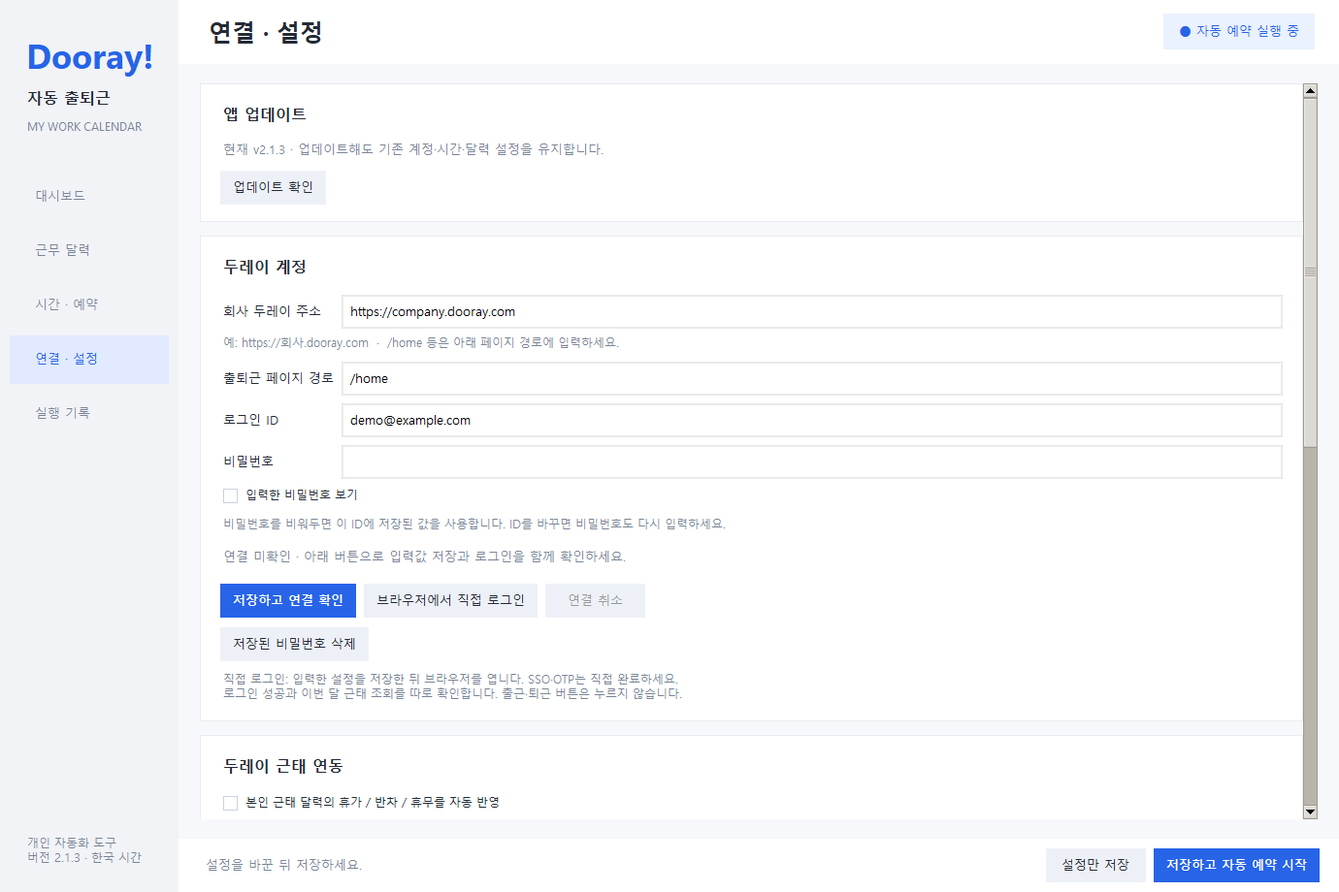
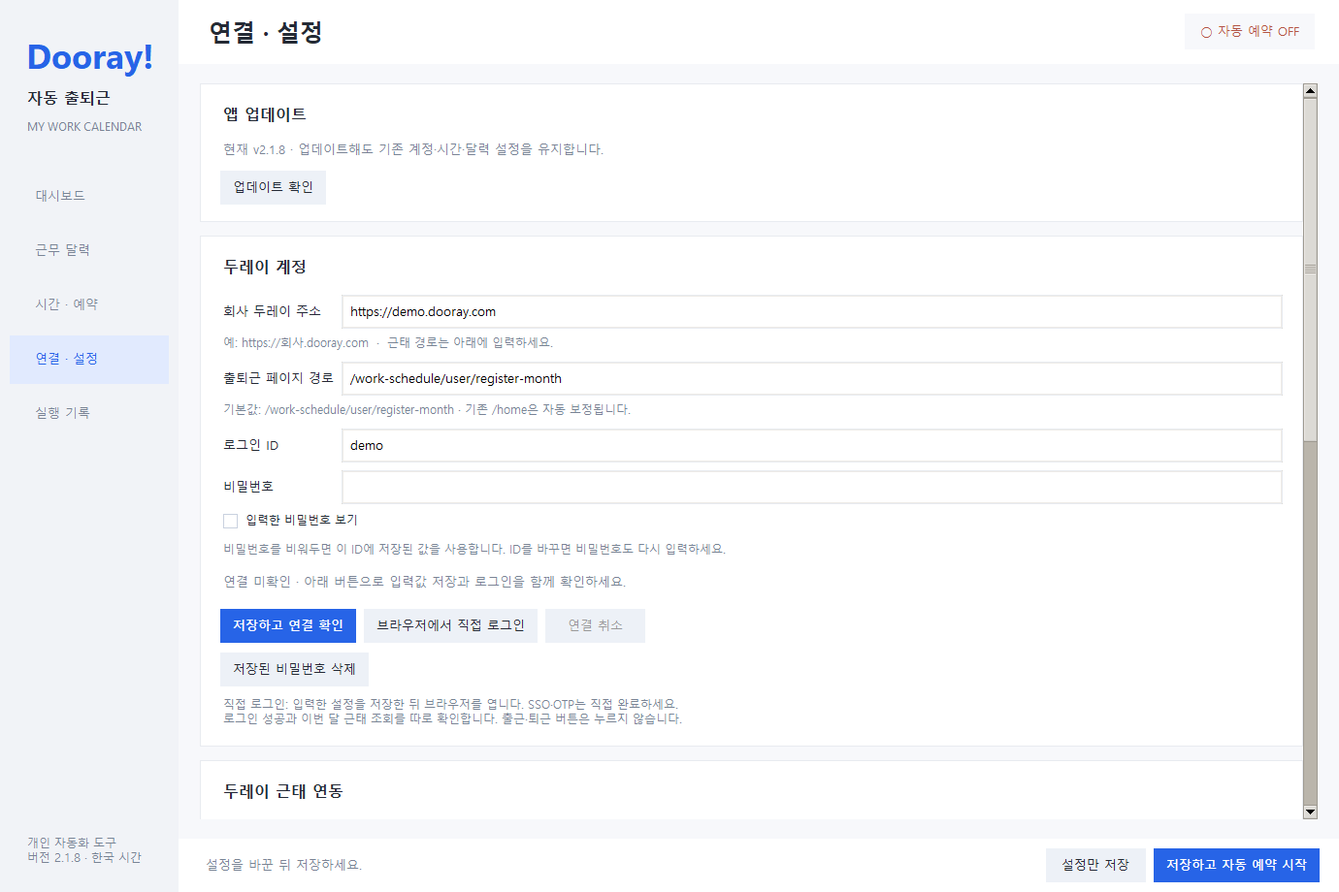
Correct legacy home path to Dooray attendance page

diff --git a/docs/guide.html b/docs/guide.html
@@ -1,11 +1,11 @@
 <!doctype html><html lang="ko"><head><meta charset="utf-8"><meta name="viewport" content="width=device-width, initial-scale=1"><title>설치와 업데이트 안내 | 두레이 자동 출퇴근</title><meta name="description" content="Windows에서 두레이 자동 출퇴근을 설치하고 계정 연결, 출퇴근 시간, 휴가·반차와 자동 예약을 설정하는 방법."><link rel="canonical" href="https://kimasill.github.io/dooray-auto-checkin/guide.html"><meta property="og:type" content="article"><meta property="og:locale" content="ko_KR"><meta property="og:title" content="두레이 자동 출퇴근 설치·업데이트 안내"><meta property="og:description" content="다운로드부터 계정 연결, 예약 시작, 업데이트까지 화면과 함께 따라 하는 설치 가이드."><meta property="og:url" content="https://kimasill.github.io/dooray-auto-checkin/guide.html"><meta property="og:image" content="https://kimasill.github.io/dooray-auto-checkin/images/connection.png"><meta name="twitter:card" content="summary_large_image"><link rel="icon" href="icon.svg" type="image/svg+xml"><link rel="stylesheet" href="site.css"></head><body>
 <a class="skip" href="#main">본문으로 바로가기</a><header class="header"><div class="wrap"><a class="brand" href="./"><img src="icon.svg" alt="">두레이 자동 출퇴근</a><nav class="nav" aria-label="주 메뉴"><a href="./#features">기능</a><a href="guide.html" aria-current="page">설치 안내</a><a href="story.html">소개 글</a><a class="nav-cta" href="https://github.com/kimasill/dooray-auto-checkin/releases/latest">다운로드 ↗</a></nav></div></header>
-<main id="main"><div class="page-hero"><div class="wrap"><p class="eyebrow">Installation guide</p><h1>설치부터 첫 예약까지.</h1><p class="lead">처음 사용하는 분도 순서대로 따라 할 수 있도록 정리했습니다.<br>기존 사용자는 아래의 업데이트 방법을 이용하세요.</p><p class="meta">Windows용 · v2.1.7 기준 · 2026.10.22</p></div></div><article class="reading">
+<main id="main"><div class="page-hero"><div class="wrap"><p class="eyebrow">Installation guide</p><h1>설치부터 첫 예약까지.</h1><p class="lead">처음 사용하는 분도 순서대로 따라 할 수 있도록 정리했습니다.<br>기존 사용자는 아래의 업데이트 방법을 이용하세요.</p><p class="meta">Windows용 · v2.1.8 기준 · 2026.10.22</p></div></div><article class="reading">
 <nav class="toc" aria-label="설치 안내 목차"><a href="#download">다운로드</a><a href="#connect">계정 연결</a><a href="#schedule">예약 시작</a><a href="#calendar">근태 반영</a><a href="#update">업데이트</a><a href="#troubleshooting">문제 해결</a></nav>
 <h2 id="download">01. 설치 파일 받기</h2><ol><li><a href="https://github.com/kimasill/dooray-auto-checkin/releases/latest">GitHub 최신 릴리스</a>를 엽니다.</li><li>Assets에서 <strong>DoorayAutoCheckin-v버전-windows.zip</strong>을 받습니다. 소스 코드를 담은 <code>-source.zip</code>과는 다른 파일입니다.</li><li>받은 ZIP을 원하는 폴더에 <strong>압축 해제</strong>한 뒤 <strong>설치.bat</strong>을 실행합니다.</li><li>필요한 Chromium 준비와 설치가 완료되면 프로그램을 실행합니다. 최초 설치에는 인터넷 연결이 필요합니다.</li></ol><p>Python을 따로 설치할 필요는 없습니다. 프로그램과 사용자 설정은 <code>%LOCALAPPDATA%\DoorayCheckin</code> 아래에 저장됩니다.</p>
-<h2 id="connect">02. 회사 계정 연결하기</h2><ol><li>왼쪽 메뉴의 <strong>연결 · 설정</strong>을 엽니다.</li><li>회사 두레이 주소를 <code>https://회사.dooray.com</code> 형태로 입력합니다. 회사 주소에 <code>/home</code>을 붙이지 않습니다.</li><li>회사 웹에서 사용하는 로그인 ID와 비밀번호를 입력합니다.</li><li><strong>저장하고 연결 확인</strong>을 누르고 화면 아래에 표시되는 결과를 확인합니다.</li></ol><figure><a href="images/connection.png"><img loading="lazy" src="images/connection.png" width="1380" height="920" alt="회사 두레이 주소와 ID·비밀번호를 입력하고 저장하고 연결 확인을 누르는 설정 화면"></a><figcaption>실제 프로그램 화면 · 계정 정보는 예시입니다. 이미지를 누르면 크게 볼 수 있습니다.</figcaption></figure><p>연결 확인은 로그인과 출퇴근 화면, 근태 조회를 점검하며 출퇴근 기록은 만들지 않습니다. SSO·OTP 등 추가 인증이 있으면 <strong>브라우저에서 직접 로그인</strong>을 사용하세요. 비밀번호를 비워두면 현재 ID에 저장된 비밀번호를 사용합니다.</p>
+<h2 id="connect">02. 회사 계정 연결하기</h2><ol><li>왼쪽 메뉴의 <strong>연결 · 설정</strong>을 엽니다.</li><li>회사 두레이 주소를 <code>https://회사.dooray.com</code> 형태로 입력합니다. 회사 주소에 페이지 경로를 붙이지 않습니다. 출퇴근 페이지 경로와 본인 월별 근태 경로는 모두 <code>/work-schedule/user/register-month</code>가 기본값입니다.</li><li>회사 웹에서 사용하는 로그인 ID와 비밀번호를 입력합니다.</li><li><strong>저장하고 연결 확인</strong>을 누르고 화면 아래에 표시되는 결과를 확인합니다.</li></ol><figure><a href="images/connection.png"><img loading="lazy" src="images/connection.png" width="1380" height="920" alt="회사 두레이 주소와 ID·비밀번호를 입력하고 저장하고 연결 확인을 누르는 설정 화면"></a><figcaption>실제 프로그램 화면 · 계정 정보는 예시입니다. 이미지를 누르면 크게 볼 수 있습니다.</figcaption></figure><p>연결 확인은 로그인과 출퇴근 화면, 근태 조회를 점검하며 출퇴근 기록은 만들지 않습니다. SSO·OTP 등 추가 인증이 있으면 <strong>브라우저에서 직접 로그인</strong>을 사용하세요. 비밀번호를 비워두면 현재 ID에 저장된 비밀번호를 사용합니다.</p>
 <h2 id="schedule">03. 시간 설정 후 자동 예약 시작하기</h2><ol><li><strong>시간 · 예약</strong>에서 출근·퇴근 각각의 <strong>자동 예약에 포함</strong> 여부를 선택합니다.</li><li>기준 시각을 시·분·초 드롭다운으로 고릅니다.</li><li><strong>고정 시각</strong> 또는 <strong>랜덤 범위</strong>를 선택합니다. 랜덤 범위는 기준 시각의 이전·이후를 각각 분과 초로 설정합니다.</li><li>근무 요일과 공휴일 제외 여부를 확인합니다.</li><li>하단의 <strong>저장하고 자동 예약 시작</strong>을 누릅니다.</li><li>상단에 <strong>자동 예약 실행 중</strong>이 나타나고 대시보드에 오늘의 선택 시각이 표시되는지 확인합니다.</li></ol><div class="notice"><strong>‘설정만 저장’은 예약을 시작하지 않습니다.</strong><br>PC가 켜져 있고 Windows에 로그인된 상태여야 합니다. 자동 예약을 켜 두면 앱 창을 닫아도 감시 프로그램은 유지됩니다.</div><figure><a href="images/schedule.png"><img loading="lazy" src="images/schedule.png" width="1380" height="920" alt="출퇴근 기준 시각과 랜덤 범위의 분·초를 지정하고 자동 예약을 시작하는 화면"></a><figcaption>예: 09:55 기준 5분 30초 전 ~ 2분 15초 후 → 09:49:30~09:57:15.</figcaption></figure><p>랜덤 시각은 범위 안의 모든 초 중 하나를 선택합니다. 설정이 같으면 같은 날 앱을 재시작해도 선택 시각은 유지됩니다. <strong>예약 시각은 처리 시작 시각</strong>이며, 접속과 로그인 이후 실제 기록이 남으므로 특정 초의 기록을 보장하지 않습니다.</p>
 <h2 id="calendar">04. 연차·반차와 날짜별 예외 설정하기</h2><p><strong>근무 달력 → 이번 달 근태 가져오기</strong>로 본인 근태를 갱신합니다. 연차·휴가, 오전 반차, 오후 반차를 색상으로 확인할 수 있습니다.</p><ul><li><strong>휴가·반차를 자동 예약에 적용:</strong> 달력 아래 <strong>두레이 근태를 자동 예약에도 반영</strong>을 체크한 뒤 저장합니다.</li><li><strong>반차 퇴근 시각:</strong> 시간 · 예약에서 오전·오후 반차별 퇴근 시각을 지정합니다. 출근은 원래 설정을 유지합니다.</li><li><strong>대체근무일이나 별도 휴무:</strong> 달력에서 날짜를 선택하고 근태 유형, 출근·퇴근 ON/OFF 또는 시각을 직접 지정한 뒤 저장합니다.</li></ul><p>날짜별 직접 설정이 두레이 근태보다 우선합니다. 전체 출근 또는 퇴근 예약이 꺼져 있으면 날짜별 ON만으로 실행되지 않습니다. 두레이 근태 조회는 현재 월을 대상으로 하며 다른 달은 수동으로 설정할 수 있습니다.</p>
 <h2 id="update">05. 앱에서 업데이트하기</h2><ol><li><strong>연결 · 설정 → 업데이트 확인</strong>을 누릅니다.</li><li>새 버전이 있으면 <strong>다운로드 및 설치</strong>를 누릅니다.</li><li>공식 GitHub 배포 파일을 내려받아 SHA-256을 검사한 뒤 설치합니다. 앱이 종료되고 새 버전으로 다시 열립니다.</li></ol><p>기존 계정·비밀번호·시간·달력·예약 ON/OFF를 유지합니다. 이전 실행 파일과 설정은 <code>%LOCALAPPDATA%\DoorayCheckin\backups</code>에 백업됩니다. 앱 내 업데이트는 2.1.3부터 지원하며, 더 오래된 버전은 최신 Windows ZIP을 받아 <strong>설치.bat</strong>으로 업데이트하세요.</p>
-<h2 id="troubleshooting">문제가 생겼을 때</h2><div class="faq"><details><summary>로그인이 되지 않아요</summary><p>회사 주소와 로그인 ID, 비밀번호를 다시 확인하고 ‘저장하고 연결 확인’을 누르세요. SSO·OTP는 ‘브라우저에서 직접 로그인’을 사용합니다. 계정 입력란 아래에 표시되는 오류 코드와 안내를 확인하세요. <a href="https://github.com/kimasill/dooray-auto-checkin#연결이-안-될-때">오류 코드별 안내</a></p></details><details><summary>웹 로그인은 됐는데 앱이 계속 기다려요</summary><p>2.1.7로 업데이트하고 출퇴근 페이지 경로가 기본값 /home인지 확인하세요. 로그인 뒤 메일·프로젝트로 이동한 경우 출퇴근 페이지로 이동해 다시 확인합니다. 직접 로그인에서는 열린 창에 사용자가 ID·비밀번호를 입력해야 합니다. 계속 실패하면 연결 확인을 다시 실행한 직후 최신 진단 도구 v3로 수집하세요.</p></details><details><summary>시간을 저장했는데 예약이 실행되지 않아요</summary><p>‘자동 예약에 포함’과 ‘자동 예약 실행 중’ 표시를 확인하세요. 오늘 날짜의 휴가·공휴일·수동 OFF도 확인해야 합니다. PC가 꺼졌거나 절전 상태였다면 예정 시각에 실행되지 않을 수 있습니다. 실행 기록 메뉴에서 당시 로그를 확인하세요.</p></details><details><summary>출근·퇴근 점검을 눌렀는데 기록이 없어요</summary><p>‘출근 점검 (기록 없음)’과 ‘퇴근 점검 (기록 없음)’은 실제 기록을 만들지 않습니다. 지금 처리하려면 ‘지금 출근’ 또는 ‘지금 퇴근’을 누르고 확인창을 거쳐야 합니다.</p></details><details><summary>다른 PC에서 실패한 로그를 전달하고 싶어요</summary><p><a href="https://github.com/kimasill/dooray-auto-checkin/releases/latest">최신 릴리스</a>의 Dooray-diagnostics-tool.zip을 실패한 PC에서 풀고 ‘진단로그수집.bat’을 실행하세요. 바탕화면에 진단 ZIP이 생성됩니다. 도구는 비밀번호·로그인 세션·스크린샷·원본 설정을 수집하지 않으며 자동 전송하지 않습니다. 공유 전에 내용을 확인하고 비밀번호나 원본 설정 파일을 공개 이슈에 붙이지 마세요.</p></details></div><div class="actions"><a class="button" href="https://github.com/kimasill/dooray-auto-checkin/releases/latest">최신 설치 파일 보기 ↗</a><a class="button secondary" href="https://github.com/kimasill/dooray-auto-checkin/issues">문의·오류 제보</a></div>
+<h2 id="troubleshooting">문제가 생겼을 때</h2><div class="faq"><details><summary>로그인이 되지 않아요</summary><p>회사 주소와 로그인 ID, 비밀번호를 다시 확인하고 ‘저장하고 연결 확인’을 누르세요. SSO·OTP는 ‘브라우저에서 직접 로그인’을 사용합니다. 계정 입력란 아래에 표시되는 오류 코드와 안내를 확인하세요. <a href="https://github.com/kimasill/dooray-auto-checkin#연결이-안-될-때">오류 코드별 안내</a></p></details><details><summary>웹 로그인은 됐는데 앱이 계속 기다려요</summary><p>2.1.8로 업데이트하고 ‘저장하고 연결 확인’을 누르세요. 기존 /home 설정은 /work-schedule/user/register-month로 자동 보정됩니다. /home에는 출퇴근 버튼이 없을 수 있습니다. 로그인 뒤 메일·프로젝트로 이동한 경우 출퇴근 페이지로 이동해 다시 확인합니다. 직접 로그인에서는 열린 창에 사용자가 ID·비밀번호를 입력해야 합니다. 계속 실패하면 연결 확인을 다시 실행한 직후 최신 진단 도구 v3로 수집하세요.</p></details><details><summary>시간을 저장했는데 예약이 실행되지 않아요</summary><p>‘자동 예약에 포함’과 ‘자동 예약 실행 중’ 표시를 확인하세요. 오늘 날짜의 휴가·공휴일·수동 OFF도 확인해야 합니다. PC가 꺼졌거나 절전 상태였다면 예정 시각에 실행되지 않을 수 있습니다. 실행 기록 메뉴에서 당시 로그를 확인하세요.</p></details><details><summary>출근·퇴근 점검을 눌렀는데 기록이 없어요</summary><p>‘출근 점검 (기록 없음)’과 ‘퇴근 점검 (기록 없음)’은 실제 기록을 만들지 않습니다. 지금 처리하려면 ‘지금 출근’ 또는 ‘지금 퇴근’을 누르고 확인창을 거쳐야 합니다.</p></details><details><summary>다른 PC에서 실패한 로그를 전달하고 싶어요</summary><p><a href="https://github.com/kimasill/dooray-auto-checkin/releases/latest">최신 릴리스</a>의 Dooray-diagnostics-tool.zip을 실패한 PC에서 풀고 ‘진단로그수집.bat’을 실행하세요. 바탕화면에 진단 ZIP이 생성됩니다. 도구는 비밀번호·로그인 세션·스크린샷·원본 설정을 수집하지 않으며 자동 전송하지 않습니다. 공유 전에 내용을 확인하고 비밀번호나 원본 설정 파일을 공개 이슈에 붙이지 마세요.</p></details></div><div class="actions"><a class="button" href="https://github.com/kimasill/dooray-auto-checkin/releases/latest">최신 설치 파일 보기 ↗</a><a class="button secondary" href="https://github.com/kimasill/dooray-auto-checkin/issues">문의·오류 제보</a></div>
 </article></main><footer class="footer"><div class="wrap"><p>두레이 자동 출퇴근 · kimasill의 개인 프로젝트<br>Dooray가 제공하는 공식 프로그램이 아닙니다.</p><p><a href="./">소개 페이지</a> · <a href="story.html">소개 글</a> · <a href="https://github.com/kimasill/dooray-auto-checkin">GitHub</a></p></div></footer></body></html>

diff --git a/Duray/tests/test_legacy_path.py b/Duray/tests/test_legacy_path.py
@@ -1,0 +1,127 @@
+"""Old /home settings must reach the page that actually contains attendance."""
+import copy
+import datetime as dt
+import json
+import os
+from pathlib import Path
+import sys
+import tempfile
+import threading
+import unittest
+from unittest.mock import patch
+
+sys.path.insert(0, str(Path(__file__).resolve().parents[1]))
+import dooray_checkin as core
+import attendance_rules as rules
+import attendance_runtime as runtime
+from playwright.sync_api import BrowserType
+
+PATH = '/work-schedule/user/register-month'
+BROWSER = os.environ.get('DOORAY_TEST_BROWSER', '')
+OUTPUT = Path(__file__).resolve().parents[2] / 'test-output/legacy-path'
+
+
+class LegacySettingsTest(unittest.TestCase):
+    def test_loading_old_file_corrects_only_home_without_rewriting_file(self):
+        OUTPUT.mkdir(parents=True, exist_ok=True)
+        for path in ('/home', '/home/'):
+            with self.subTest(path=path), tempfile.TemporaryDirectory(dir=OUTPUT) as temp:
+                config_path = Path(temp) / 'config.json'
+                old = copy.deepcopy(core.DEFAULT_CONFIG)
+                old.update(attendance_path=path, login_id='fixture', checkin_time='09:55',
+                           checkout_time='19:00', time_mode='random', random_before_minutes=5,
+                           random_after_minutes=5, checkout_enabled=True,
+                           date_overrides={'2026-10-23': {'kind': 'vacation'}})
+                config_path.write_text(json.dumps(old), encoding='utf-8')
+                before = config_path.read_bytes()
+                with patch.object(core, 'CONFIG_PATH', config_path):
+                    loaded = core.load_config(validate=False)
+                self.assertEqual(loaded['attendance_path'], PATH)
+                self.assertEqual(config_path.read_bytes(), before)
+                for key, value in old.items():
+                    if key != 'attendance_path':
+                        self.assertEqual(loaded[key], value, key)
+                for action in rules.ACTIONS:
+                    day = dt.date(2026, 10, 22)
+                    self.assertEqual(rules.plan_action(old, day, action).target,
+                                     rules.plan_action(loaded, day, action).target)
+
+    def test_explicit_custom_paths_and_calendar_settings_are_preserved(self):
+        for path in (PATH, '/custom-attendance', '/home?custom=1', '/homepage'):
+            cfg = rules.normalize_config({'attendance_path': path, 'dooray_calendar_path': '/custom-calendar'})
+            self.assertEqual(cfg['attendance_path'], path)
+            self.assertEqual(cfg['dooray_calendar_path'], '/custom-calendar')
+
+    def test_new_install_template_and_defaults_use_attendance_page(self):
+        template = json.loads((Path(__file__).resolve().parents[1] / 'config.example.json').read_text(encoding='utf-8-sig'))
+        self.assertEqual(core.DEFAULT_CONFIG['attendance_path'], PATH)
+        self.assertEqual(template['attendance_path'], PATH)
+
+
+@unittest.skipUnless(BROWSER and Path(BROWSER).is_file(), 'Set DOORAY_TEST_BROWSER')
+class LegacyBrowserTest(unittest.TestCase):
+    def run_legacy(self, *, manual=False, action=None):
+        OUTPUT.mkdir(parents=True, exist_ok=True)
+        cfg = copy.deepcopy(core.DEFAULT_CONFIG)
+        cfg.update(tenant_url='https://fixture.dooray.com', login_id='fixture', attendance_path='/home',
+                   timeout_ms=1500, dooray_sync_enabled=True, checkout_enabled=True,
+                   checkin_time='09:00', checkout_time='18:00')
+        now = dt.datetime(2026, 10, 22, 9 if action != 'checkout' else 18, 0, 1, tzinfo=rules.KST)
+        cells = ''.join(f'<div data-date="{d}">{d.day}</div>' for d in rules.month_dates(2026, 10))
+        buttons = ('<div>출근 <span>' + ('09:00:00' if action == 'checkout' else '-') + '</span>'
+                   '<button onclick="mutation(\'checkin\');this.previousElementSibling.textContent=\'09:00:01\'">출근하기</button></div>'
+                   '<div>퇴근 <span>-</span><button onclick="mutation(\'checkout\');this.previousElementSibling.textContent=\'18:00:01\'">퇴근하기</button></div>')
+        visits, mutations = [], []
+        launch = BrowserType.launch_persistent_context
+
+        def fixture(browser_type, **kw):
+            kw.pop('channel', None)
+            kw['headless'] = True
+            ctx = launch(browser_type, executable_path=BROWSER, timeout=15000, **kw)
+            ctx.expose_function('mutation', lambda action: mutations.append(action))
+
+            def respond(route):
+                visits.append(route.request.url)
+                body = cells + buttons if route.request.url.endswith(PATH) else '<h1>홈</h1>'
+                route.fulfill(content_type='text/html; charset=utf-8', body=body)
+            ctx.route('**/*', respond)
+            return ctx
+
+        cancel = threading.Event()
+        timer = threading.Timer(8, cancel.set)
+        with tempfile.TemporaryDirectory(dir=OUTPUT) as temp, \
+                patch.object(core, 'PROFILE_DIR', Path(temp) / 'profile'), \
+                patch.object(core, 'CALENDAR_PATH', Path(temp) / 'calendar.json'), \
+                patch.object(core, 'SHOT_DIR', Path(temp) / 'screenshots'), \
+                patch.object(core, 'load_config', return_value=cfg), \
+                patch.object(rules, 'now_kst', return_value=now), \
+                patch.object(BrowserType, 'launch_persistent_context', fixture):
+            timer.start()
+            try:
+                result = runtime.run_once(cfg, dry_run=action is None, headed=False, inspect=False,
+                                          connection_only=action is None, manual_login=manual,
+                                          action=action or 'checkin', scheduled=action is not None,
+                                          requested_at=now, cancel=cancel)
+            finally:
+                timer.cancel()
+        self.assertEqual(cfg['attendance_path'], '/home')
+        self.assertTrue(visits)
+        self.assertTrue(all(url.endswith(PATH) for url in visits), visits)
+        self.assertEqual(mutations, [action] if action else [])
+        return result
+
+    def test_saved_home_connection_reaches_buttons_and_calendar(self):
+        self.assertTrue(self.run_legacy()['ok'])
+
+    def test_manual_connection_with_saved_home_reaches_attendance(self):
+        self.assertTrue(self.run_legacy(manual=True)['ok'])
+
+    def test_scheduled_checkin_with_saved_home_uses_attendance_page(self):
+        self.assertEqual(self.run_legacy(action='checkin'), '출근 체크 성공')
+
+    def test_scheduled_checkout_with_saved_home_uses_attendance_page(self):
+        self.assertEqual(self.run_legacy(action='checkout'), '퇴근 체크 성공')
+
+
+if __name__ == '__main__':
+    unittest.main()

diff --git a/Duray/tests/test_auth.py b/Duray/tests/test_auth.py
@@ -100,7 +100,7 @@ class LoginBrowserTest(unittest.TestCase):
         self.pw_mock = patch.object(core, "get_password", return_value="fixture-secret").start()
         self.addCleanup(patch.stopall)
 
-    def load(self, body, script="", url="https://fixture.dooray.com/home"):
+    def load(self, body, script="", url="https://fixture.dooray.com" + rules.ATTENDANCE_PATH):
         html = f"<meta charset='utf-8'><body>{body}<script>window.mutations=0; window.submits=0; window.result={SUCCESS!r}; {script}</script></body>"
         self.ctx.route("**/*", lambda r: r.fulfill(body=html, content_type="text/html"))
         self.page.goto(url)
@@ -124,7 +124,7 @@ class LoginBrowserTest(unittest.TestCase):
             visits.append(path)
             if path == '/login':
                 body='<input id="loginId"><input type="password"><button type="submit" onclick="location.href=\'/mail\'">로그인</button>'
-            elif path == '/home':
+            elif path == rules.ATTENDANCE_PATH:
                 body=SUCCESS
             else:
                 body='<main><h1>메일</h1><input type="text" placeholder="검색"></main>'
@@ -132,14 +132,14 @@ class LoginBrowserTest(unittest.TestCase):
         self.ctx.route('**/*',route)
         self.page.goto('https://fixture.dooray.com/login')
         auth.ensure_logged_in(self.page,self.cfg)
-        self.assertEqual(self.page.url,'https://fixture.dooray.com/home')
-        self.assertEqual(visits.count('/home'),1)
+        self.assertEqual(self.page.url,'https://fixture.dooray.com'+rules.ATTENDANCE_PATH)
+        self.assertEqual(visits.count(rules.ATTENDANCE_PATH),1)
         self.pw_mock.assert_called_once()
 
     def test_manual_logged_in_project_page_recovers_without_typing_or_clicking(self):
         visits=[]
         self.ctx.route('**/*',lambda r: (visits.append(r.request.url),r.fulfill(content_type='text/html; charset=utf-8',
-            body=SUCCESS if r.request.url.endswith('/home') else '<h1>Project</h1><input type="text">')))
+            body=SUCCESS if r.request.url.endswith(rules.ATTENDANCE_PATH) else '<h1>Project</h1><input type="text">')))
         self.page.goto('https://fixture.dooray.com/project')
         cancel=threading.Event()
         timer=threading.Timer(8,cancel.set); timer.start()
@@ -147,7 +147,7 @@ class LoginBrowserTest(unittest.TestCase):
             auth.ensure_logged_in(self.page,self.cfg,manual=True,cancel=cancel)
         finally:
             timer.cancel()
-        self.assertEqual(self.page.url,'https://fixture.dooray.com/home')
+        self.assertEqual(self.page.url,'https://fixture.dooray.com'+rules.ATTENDANCE_PATH)
         self.assertEqual(len(visits),2)
         self.pw_mock.assert_not_called()
 
@@ -268,7 +268,7 @@ class ConnectionBrowserTest(unittest.TestCase):
             kw.pop("channel", None)
             ctx = launch(browser_type, executable_path=BROWSER, timeout=15000, **kw)
             ctx.expose_function("mutation", lambda: mutations.append(True))
-            ctx.route("**/*", lambda r: r.fulfill(content_type="text/html; charset=utf-8", body=calendar if "register-month" in r.request.url else
+            ctx.route("**/*", lambda r: r.fulfill(content_type="text/html; charset=utf-8", body=calendar +
                       "<button onclick='mutation()'>출근하기</button><button onclick='mutation()'>퇴근하기</button>"))
             return ctx
         with tempfile.TemporaryDirectory(dir=OUTPUT) as temp, patch.object(core, "PROFILE_DIR", Path(temp) / "profile"), \
@@ -286,7 +286,7 @@ class ConnectionBrowserTest(unittest.TestCase):
         for message in progress:
             self.assertIn(message, recorded)
         self.assertIn('두레이 첫 응답: HTTP 200',recorded)
-        self.assertIn('출퇴근 경로=home',recorded)
+        self.assertIn('출퇴근 경로=calendar',recorded)
 
 
 if __name__ == "__main__":

diff --git a/Duray/attendance_rules.py b/Duray/attendance_rules.py
@@ -12,6 +12,7 @@ from functools import lru_cache
 from urllib.parse import urlparse
 
 KST = dt.timezone(dt.timedelta(hours=9))
+ATTENDANCE_PATH = "/work-schedule/user/register-month"
 ACTIONS = ("checkin", "checkout")
 LABELS = {"checkin": "출근", "checkout": "퇴근"}
 DAY_LABELS = {"auto": "자동 판정", "work": "근무일", "holiday": "휴무 / 대체휴일",
@@ -27,7 +28,7 @@ NEW_DEFAULTS = {
     "half_day_policy": "checkout_time", "am_half_checkout_time": "18:00",
     "pm_half_checkout_time": "14:00", "late_grace_minutes": 15,
     "dooray_sync_enabled": False,
-    "dooray_calendar_path": "/work-schedule/user/register-month",
+    "dooray_calendar_path": ATTENDANCE_PATH,
     "dooray_calendar_selector": "", "sync_interval_minutes": 60,
 }
 
@@ -38,6 +39,11 @@ def now_kst() -> dt.datetime:
 
 def normalize_config(raw: dict) -> dict:
     cfg = {**copy.deepcopy(NEW_DEFAULTS), **copy.deepcopy(raw)}
+    # The old default is Dooray's portal, which may have no attendance controls.
+    # Correct it on read for both the GUI and watcher, without changing custom
+    # paths or rewriting an existing config file during a read-only operation.
+    if cfg.get("attendance_path", ATTENDANCE_PATH) in ("/home", "/home/"):
+        cfg["attendance_path"] = ATTENDANCE_PATH
     if cfg["half_day_policy"] in ("skip_action", "skip_day", "custom_time"):
         cfg["half_day_policy"] = "checkout_time"
     if "am_half_checkout_time" not in raw:
@@ -76,7 +82,7 @@ def validate_config(cfg: dict, *, require_account: bool = False) -> None:
     if parsed.scheme != "https" or not parsed.netloc or parsed.username or parsed.query or parsed.fragment:
         raise ValueError("두레이 주소는 https://로 시작하는 회사 주소를 입력하세요.")
     if parsed.path not in ("", "/"):
-        raise ValueError("회사 두레이 주소에는 https://회사.dooray.com까지만 입력하세요. /home 등은 출퇴근 페이지 경로에 입력하세요.")
+        raise ValueError("회사 두레이 주소에는 https://회사.dooray.com까지만 입력하세요. 근태 경로는 아래 출퇴근 페이지 경로에 입력하세요.")
     if require_account and (not cfg.get("login_id", "").strip() or "YOURCOMPANY" in cfg["tenant_url"]):
         raise ValueError("두레이 주소와 로그인 ID를 먼저 저장하세요.")
     for key in ("attendance_path", "dooray_calendar_path"):

diff --git a/Duray/desktop_ui.py b/Duray/desktop_ui.py
@@ -405,8 +405,9 @@ class App:
         box = self.card(page, "두레이 계정")
         box.pack(fill="x", pady=(0, 14))
         self.field(box, "회사 두레이 주소", "tenant_url")
-        self.label(box, "예: https://회사.dooray.com  ·  /home 등은 아래 페이지 경로에 입력하세요.", color=MUTED, size=9).pack(anchor="w", pady=(0, 5))
+        self.label(box, "예: https://회사.dooray.com  ·  근태 경로는 아래에 입력하세요.", color=MUTED, size=9).pack(anchor="w", pady=(0, 5))
         self.field(box, "출퇴근 페이지 경로", "attendance_path")
+        self.label(box, "기본값: /work-schedule/user/register-month · 기존 /home은 자동 보정됩니다.", color=MUTED, size=9).pack(anchor="w", pady=(0, 5))
         self.field(box, "로그인 ID", "login_id")
         self.password_entry = self.field(box, "비밀번호", "password", secret=True)
         self.password_visible = tk.BooleanVar(value=False)
@@ -553,6 +554,7 @@ class App:
         cfg["date_overrides"] = copy.deepcopy(self.overrides)
         for key, var in self.selector_vars.items():
             cfg["selectors"][key] = var.get().strip() or None
+        cfg = rules.normalize_config(cfg)
         rules.validate_config(cfg)
         return cfg
 
@@ -586,6 +588,8 @@ class App:
         def done(value):
             self.cfg = value
             self.vars["password"].set("")
+            if self.vars["attendance_path"].get().strip() in ("/home", "/home/"):
+                self.vars["attendance_path"].set(value["attendance_path"])
             on = self.task.get("exists") and self.task.get("state") != "Disabled"
             self.feedback.configure(text="설정 저장 완료" if on else "설정 저장 완료 · 자동 예약은 아직 OFF입니다.", fg=ACCENT if on else "#B25545")
             self.cache = core.load_calendar(self.cfg)

diff --git a/Duray/tests/test_gui.py b/Duray/tests/test_gui.py
@@ -83,6 +83,18 @@ class DesktopTest(unittest.TestCase):
         self.wait()
         self.assertEqual(core.load_config()["checkin_time"], "09:35:42")
 
+    def test_connect_saves_and_displays_corrected_legacy_home_path(self):
+        self.app.vars['attendance_path'].set('/home')
+        with patch.object(desktop_ui.runtime, 'check_connection', return_value={'ok': True, 'message': '연결 완료'}) as connect:
+            self.app.connect()
+            self.wait()
+        saved = json.loads(core.CONFIG_PATH.read_text(encoding='utf-8'))
+        self.assertEqual(saved['attendance_path'], rules.ATTENDANCE_PATH)
+        self.assertEqual(self.app.vars['attendance_path'].get(), rules.ATTENDANCE_PATH)
+        self.assertEqual(connect.call_args.args[0]['attendance_path'], rules.ATTENDANCE_PATH)
+        self.assertFalse(self.app.account_dirty())
+        self.assertEqual(self.app.connection_status.cget('text'), '연결 완료')
+
     def test_date_time_can_inherit_or_use_dropdown(self):
         picker = self.app.time_pickers["day_checkout_time"]
         self.assertTrue(picker.inherit.get())

diff --git a/Duray/dooray_checkin.py b/Duray/dooray_checkin.py
@@ -203,7 +203,7 @@ def notify_failure(message: str) -> None:
 # ----------------------------------------------------------------------------
 DEFAULT_CONFIG = {
     "tenant_url": "https://YOURCOMPANY.dooray.com",
-    "attendance_path": "/home",
+    "attendance_path": rules.ATTENDANCE_PATH,
     "login_id": "",
     "checkin_time": "09:00",
     # "fixed"  = checkin_time 그대로
@@ -579,7 +579,7 @@ def do_setup() -> int:
 
     cfg["tenant_url"] = ask("두레이 주소 (예: https://mycompany.dooray.com)",
                             cfg["tenant_url"]).rstrip("/")
-    cfg["attendance_path"] = ask("근태 페이지 경로", cfg["attendance_path"]) or "/home"
+    cfg["attendance_path"] = ask("근태 페이지 경로", cfg["attendance_path"]) or rules.ATTENDANCE_PATH
     cfg["login_id"] = ask("로그인 ID (이메일)", cfg["login_id"])
     cfg["checkin_time"] = ask("출근 체크 시각 (HH:MM)", cfg["checkin_time"])
 

diff --git a/Duray/attendance_runtime.py b/Duray/attendance_runtime.py
@@ -89,6 +89,10 @@ def run_once(cfg: dict, *, dry_run: bool, headed: bool, inspect: bool,
              scheduled: bool = False, sync_only: bool = False, connection_only: bool = False,
              manual_login: bool = False, progress=None, cancel=None, requested_at=None):
     from playwright.sync_api import sync_playwright
+    old_path = cfg.get("attendance_path")
+    cfg = rules.normalize_config(cfg)
+    if old_path != cfg.get("attendance_path"):
+        core.log.info("기존 /home 출퇴근 경로를 /work-schedule/user/register-month로 자동 보정했습니다.")
     if action not in rules.ACTIONS:
         raise ValueError("알 수 없는 출퇴근 동작")
     title = rules.LABELS[action]

diff --git a/Duray/app_version.py b/Duray/app_version.py
@@ -1,1 +1,1 @@
-VERSION = "2.1.7"
+VERSION = "2.1.8"

diff --git a/README.md b/README.md
@@ -1,10 +1,10 @@
 # 두레이 자동 출퇴근
 
-Windows에서 Dooray 출퇴근 예약, 근무 달력, 개인 근태를 관리하는 데스크톱 프로그램입니다. 현재 버전은 **2.1.7**입니다.
+Windows에서 Dooray 출퇴근 예약, 근무 달력, 개인 근태를 관리하는 데스크톱 프로그램입니다. 현재 버전은 **2.1.8**입니다.
 
 [프로그램 소개 페이지](https://kimasill.github.io/dooray-auto-checkin/) · [화면과 함께 설치하기](https://kimasill.github.io/dooray-auto-checkin/guide.html) · [프로젝트 소개 글](https://kimasill.github.io/dooray-auto-checkin/story.html)
 
-[Windows 설치 파일 다운로드](https://github.com/kimasill/dooray-auto-checkin/releases/download/v2.1.7/DoorayAutoCheckin-v2.1.7-windows.zip) · [설치 방법](#설치와-업데이트) · [연결 문제 해결](#연결이-안-될-때)
+[Windows 설치 파일 다운로드](https://github.com/kimasill/dooray-auto-checkin/releases/download/v2.1.8/DoorayAutoCheckin-v2.1.8-windows.zip) · [설치 방법](#설치와-업데이트) · [연결 문제 해결](#연결이-안-될-때)
 
 ## 화면 미리보기
 
@@ -28,7 +28,7 @@ Windows에서 Dooray 출퇴근 예약, 근무 달력, 개인 근태를 관리하
 
 **시간 설정만 저장하면 자동 예약은 시작되지 않습니다.** 하단의 **저장하고 자동 예약 시작**을 누르고 상단에 **자동 예약 실행 중**이 표시되는지 확인하세요. Windows 작업 등록과 실제 감시 프로세스 실행을 모두 확인합니다. 고정 시각에서는 랜덤 입력을 잠그며, 랜덤 범위를 선택하면 적용되는 시간 범위를 보여줍니다. 예: 09:55, 앞뒤 5분 → **09:50:00~10:00:00**에서 1초 단위로 하루 한 시각을 선택하며 대시보드에 오늘의 선택 시각을 초까지 표시합니다. 2.1.6부터 범위도 **5분 30초 전 ~ 2분 15초 후**처럼 설정할 수 있습니다. 이 경우 09:55 기준 범위는 **09:49:30~09:57:15**입니다. 선택 시각에 처리를 시작하므로 접속·로그인·네트워크에 따라 실제 두레이 기록은 늦어질 수 있습니다.
 
-1. [최신 릴리스](https://github.com/kimasill/dooray-auto-checkin/releases/latest)에서 `DoorayAutoCheckin-v2.1.7-windows.zip`을 받습니다.
+1. [최신 릴리스](https://github.com/kimasill/dooray-auto-checkin/releases/latest)에서 `DoorayAutoCheckin-v2.1.8-windows.zip`을 받습니다.
 2. 압축을 풀고 `설치.bat`을 실행합니다.
 3. 프로그램의 **연결 · 설정**에서 회사 두레이 주소, 로그인 ID와 비밀번호를 입력하고 **저장하고 연결 확인**을 누릅니다.
 4. **시간 · 예약**에서 출근·퇴근 시각을 설정하고, 대시보드에서 **자동 예약 켜기**를 누릅니다.
@@ -41,7 +41,7 @@ Windows에서 Dooray 출퇴근 예약, 근무 달력, 개인 근태를 관리하
 
 ![연결 설정: 입력값 저장 후 연결 확인, 비밀번호 보기와 직접 로그인](docs/images/connection.png)
 
-- **회사 주소:** `https://회사.dooray.com`까지만 입력합니다. `/home`은 출퇴근 페이지 경로에, `/work-schedule/user/register-month`는 본인 월별 근태 경로에 입력합니다.
+- **회사 주소:** `https://회사.dooray.com`까지만 입력합니다. 출퇴근 페이지 경로와 본인 월별 근태 경로의 기본값은 모두 `/work-schedule/user/register-month`입니다. `/home`은 홈 화면이므로 출퇴근 버튼이 표시되지 않을 수 있습니다.
 - **비밀번호:** 비워두면 현재 ID에 저장된 비밀번호를 사용합니다. ID나 비밀번호를 바꿨다면 새 비밀번호를 입력하고 다시 연결 확인을 누르세요. 입력한 비밀번호 보기로 오타를 확인할 수 있습니다.
 - **SSO·OTP·추가 인증:** **브라우저에서 직접 로그인**을 누릅니다. 열린 브라우저에서 직접 인증을 완료하면 세션을 저장합니다. 최대 3분 기다리며 앱에서 취소할 수 있습니다. 일반 Chrome의 로그인 상태는 이 앱과 별개입니다.
 - **로그인 성공 / 근태 조회 실패:** 계정 인증은 통과했지만 달력을 가져오지 못한 상태입니다. 본인 월별 근태 경로와 회사의 근태 조회 권한을 확인하세요.
@@ -59,7 +59,7 @@ Windows에서 Dooray 출퇴근 예약, 근무 달력, 개인 근태를 관리하
 | `PAGE_UNCONFIRMED` / `ATTENDANCE_PAGE` / `HTTP` | 회사 주소·출퇴근 페이지 경로·접속 권한 |
 | `BROWSER` | 연결 · 설정 아래의 Chromium 설치 |
 
-**웹 로그인은 됐지만 앱이 계속 기다릴 때:** 2.1.7부터 로그인 후 메일·프로젝트로 이동한 경우 설정된 출퇴근 페이지로 이동해 다시 확인합니다. 출퇴근 페이지 경로의 기본값은 `/home`입니다. `브라우저에서 직접 로그인`은 열린 창에 사용자가 ID·비밀번호를 직접 입력하는 기능입니다.
+**웹 로그인은 됐지만 앱이 계속 기다릴 때:** 2.1.8로 업데이트한 뒤 **저장하고 연결 확인**을 한 번 실행하세요. 기존 `/home`·`/home/` 설정은 실제 근태 경로 `/work-schedule/user/register-month`로 자동 보정됩니다. 다른 사용자 지정 경로와 계정·시간·예약 설정은 유지합니다. 로그인 뒤 메일·프로젝트로 이동한 경우에도 근태 페이지로 이동해 확인합니다. `브라우저에서 직접 로그인`은 열린 창에 사용자가 ID·비밀번호를 직접 입력하는 기능입니다.
 
 비밀번호 오류·잠금·추가 인증 등이 확인되면 반복 로그인을 중지합니다. 설정을 수정한 후 **저장하고 연결 확인** 또는 **브라우저에서 직접 로그인**으로 다시 확인하세요. 2.1.1부터 계정별 세션을 분리하므로 업데이트 후 처음 연결할 때 다시 로그인할 수 있습니다. 저장된 계정·비밀번호·시간 설정은 유지됩니다.
 
@@ -88,7 +88,7 @@ Windows에서 Dooray 출퇴근 예약, 근무 달력, 개인 근태를 관리하
 
 ## 다른 PC에서 예약이 실행되지 않았을 때
 
-실패한 **그 PC에서, 앱을 사용한 Windows 계정으로** [진단 도구 ZIP](https://github.com/kimasill/dooray-auto-checkin/releases/download/v2.1.7/Dooray-diagnostics-tool.zip)을 내려받아 압축을 풀고 **진단로그수집.bat**을 실행하세요. 바탕화면에 생성되는 `Dooray-diagnostics-날짜-시간-식별자.zip`을 분석 담당자에게 전달하면 됩니다. 실패한 날짜와 기대한 예약 시각도 함께 알려주세요.
+실패한 **그 PC에서, 앱을 사용한 Windows 계정으로** [진단 도구 ZIP](https://github.com/kimasill/dooray-auto-checkin/releases/download/v2.1.8/Dooray-diagnostics-tool.zip)을 내려받아 압축을 풀고 **진단로그수집.bat**을 실행하세요. 바탕화면에 생성되는 `Dooray-diagnostics-날짜-시간-식별자.zip`을 분석 담당자에게 전달하면 됩니다. 실패한 날짜와 기대한 예약 시각도 함께 알려주세요.
 
 예약 설정, 최근 실행 로그, 결과 상태, 앱 버전, Windows 작업 상태와 절전·부팅 이벤트를 모읍니다. 비밀번호 저장소·로그인 세션·스크린샷·원본 설정 파일은 수집하지 않으며 계정 ID·회사 URL과 날짜별 메모를 제외합니다. 출퇴근 처리, 설정 변경, 자동 전송은 하지 않습니다. 일부 Windows 이벤트를 읽을 수 없어도 나머지 로그는 수집됩니다.
 

diff --git a/CHANGELOG.md b/CHANGELOG.md
@@ -1,5 +1,13 @@
 # 변경 기록
 
+## 2.1.8 — 2026-10-22
+
+- 출퇴근 기본 경로를 홈(/home)에서 실제 근태 페이지(/work-schedule/user/register-month)로 수정
+- 기존 /home·/home/ 설정은 앱·예약 감시 실행 시 자동 보정하고, 저장하고 연결 확인 시 입력란과 저장 파일에도 반영
+- 사용자 지정 경로, 계정, 날짜별 설정, 시간 범위와 오늘 선택된 예약 시각 보존
+- 잘못된 기본 경로를 안내하던 설정 화면·설치 가이드·README 수정
+- 기존 /home으로 로그인 확인 실패를 실제 재현하고, 보정 후 출퇴근 기록을 만들지 않는 연결·근태 조회 성공 확인
+
 ## 2.1.7 — 2026-10-22
 
 - 로그인 후 메일·프로젝트로 이동하면 앱이 로그인 완료를 인식하지 못하던 경로 수정
